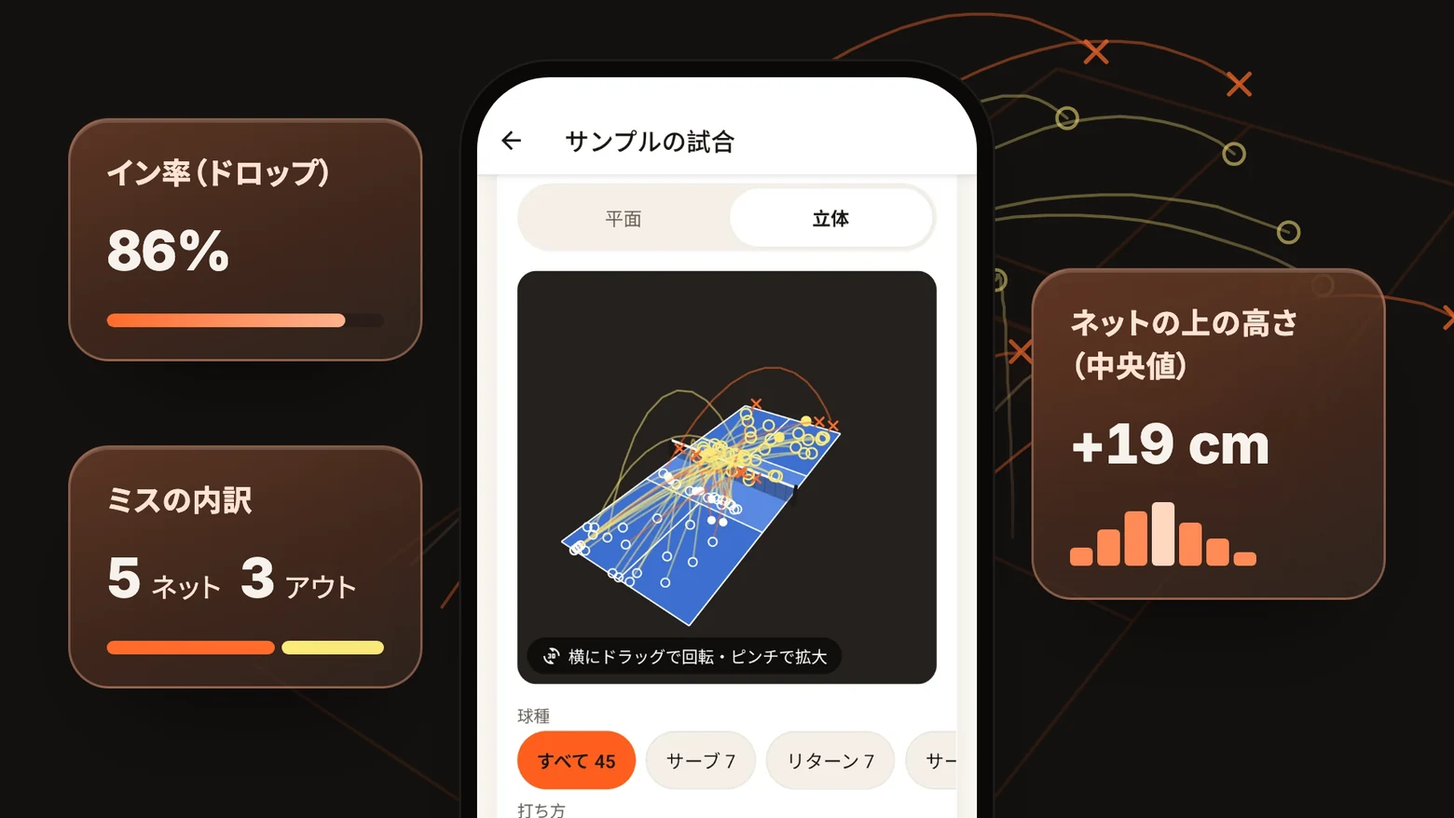
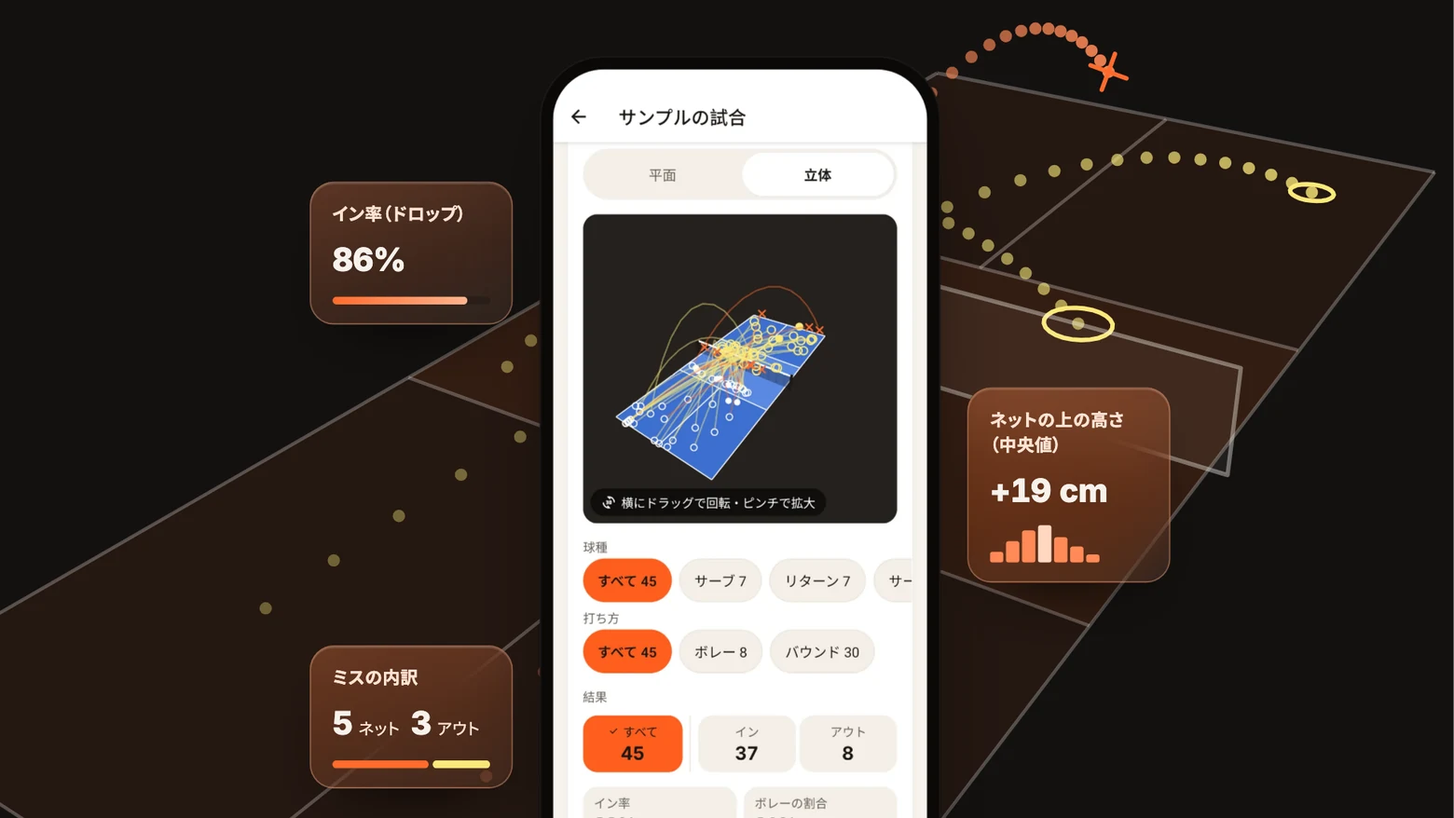
Pickle Up のページの冒頭の背景を、アプリの立体の図と同じ向きの大きなコートに、自分の打球3本（キッチンの奥へのドロップ・右奥への深い球を黄色の輪、奥へのアウトをオレンジの×）を丸い点の軌道で描いた絵に変える。点は手前が薄く奥ほど濃く、印はコートの上に置いた大きさで描き、ネットは最後に描いて隠れないようにする。打球は電話と数字のカードの位置に合わせてあるため、カードが電話の下に回る 1180px 未満ではコートだけを出す。トップページのカードの画像は、冒頭を文字を隠して 16:9 に切り出す形にして撮り直す
Claude-Session: https://claude.ai/code/session_01RcorTwHLSLi3TqpLhpw8hm

diff --git a/en/apps/pickle-up/index.html b/en/apps/pickle-up/index.html
@@ -27,7 +27,7 @@
 <link rel="preconnect" href="https://fonts.gstatic.com" crossorigin>
 <link href="https://fonts.googleapis.com/css2?family=Inter:wght@400;500;600;700;800&family=Noto+Sans+JP:wght@400;500;700;800&display=swap" rel="stylesheet">
 <link rel="stylesheet" href="https://cdnjs.cloudflare.com/ajax/libs/remixicon/4.6.0/remixicon.min.css">
-<link rel="stylesheet" href="/assets/css/apps/pickle-up.css?v=37">
+<link rel="stylesheet" href="/assets/css/apps/pickle-up.css?v=38">
 </head>
 <body class="page-home">
 <header class="app-header">
@@ -59,7 +59,7 @@
 </header>
 <main>
 <section class="hero">
-<svg class="court-lines with-shots" viewBox="0 0 1200 700" preserveAspectRatio="xMidYMid slice" aria-hidden="true" focusable="false"><path class="lines" d="M454 495 L782 713 M927 147 L1170 218 M454 495 L927 147 M782 713 L1170 218 M673 333 L971 471 M815 229 L1085 327 M600 592 L809 396 M940 274 L1041 180" fill="none" stroke="currentColor" stroke-width="2"/><path class="lines" d="M739 235 L1048 353 L1042 396 L744 275 Z" fill="currentColor" fill-opacity=".18" stroke="none"/><path class="lines" d="M744 275 L739 235 L1048 353 L1042 396" fill="none" stroke="currentColor" stroke-width="3" stroke-linejoin="round" stroke-linecap="round"/><defs><linearGradient id="arcFade" x1="0" y1="1" x2="0" y2="0"><stop offset="0" stop-color="#FFB48F" stop-opacity=".25"/><stop offset="1" stop-color="#FCE97A" stop-opacity=".9"/></linearGradient></defs><g class="flights"><path class="arc" d="M548 438 L575 412 L601 388 L628 366 L655 345 L681 326 L707 309 L732 293 L757 279 L782 267 L806 256 L829 247 L852 239 L874 233 L895 228 L915 224 L935 222 L953 221 L971 221 L989 223 L1005 225 L1021 228 L1035 233 L1049 238 L1063 243"/><path class="arc" d="M794 500 L798 473 L803 449 L807 426 L811 405 L815 385 L819 366 L823 349 L827 334 L831 320 L834 307 L838 296 L841 286 L845 277 L848 269 L851 263 L854 257 L857 253 L860 249 L862 247 L865 245 L867 244 L870 244 L872 244 L874 245"/><path class="arc" d="M596 497 L621 459 L647 424 L671 390 L696 360 L720 332 L744 306 L766 283 L788 263 L810 245 L830 229 L850 216 L869 204 L887 195 L904 188 L920 182 L936 178 L950 176 L964 175 L977 176 L989 178 L1001 181 L1012 185 L1022 190 L1031 197"/><path class="arc" d="M901 422 L901 407 L901 392 L900 378 L900 365 L899 353 L899 341 L898 331 L898 322 L897 313 L897 305 L897 298 L896 292 L896 287 L895 282 L895 278 L894 275 L894 272 L894 270 L893 269 L893 268 L892 268 L892 269 L892 270 L891 271"/><path class="arc" d="M631 352 L652 337 L673 322 L695 308 L716 295 L737 284 L758 274 L780 265 L801 257 L822 250 L842 244 L862 240 L882 237 L902 234 L921 233 L940 233 L958 234 L976 236 L993 239 L1009 243 L1025 248 L1041 253 L1056 259 L1070 266 L1083 274"/><path class="arc" d="M693 475 L707 439 L721 405 L735 373 L748 344 L761 318 L774 293 L786 271 L798 252 L810 235 L821 219 L832 206 L842 195 L852 186 L861 178 L870 172 L879 167 L887 165 L895 163 L902 163 L909 163 L916 165 L922 168 L928 172 L933 176"/><path class="arc" d="M867 375 L874 366 L881 357 L888 350 L895 343 L902 336 L908 330 L915 325 L922 320 L928 316 L934 313 L941 310 L947 308 L953 306 L959 305 L964 304 L970 304 L976 305 L981 306 L986 308 L991 310 L996 312 L1001 315 L1005 318 L1010 322"/><path class="arc-miss" d="M566 463 L594 423 L622 385 L649 350 L676 317 L702 288 L728 261 L752 237 L776 216 L799 198 L821 182 L842 168 L863 157 L882 148 L900 141 L917 136 L934 132 L949 131 L964 131 L977 132 L990 135 L1002 139 L1013 143 L1024 149 L1034 156"/><path class="arc-miss" d="M789 361 L794 357 L799 354 L805 350 L810 347 L815 344 L820 341 L825 338 L831 335 L836 333 L841 330 L846 328 L851 326 L856 324 L860 323 L865 321 L870 320 L875 318 L879 317 L884 316 L889 316 L893 315 L898 314 L902 314 L906 313"/><path class="arc-miss" d="M742 533 L767 505 L791 479 L815 454 L838 431 L861 410 L883 390 L905 372 L926 356 L946 341 L966 328 L985 317 L1003 308 L1020 300 L1037 293 L1053 288 L1068 284 L1082 281 L1096 280 L1108 280 L1120 281 L1132 283 L1142 285 L1152 289 L1161 293"/><path class="arc-miss" d="M584 376 L604 344 L624 314 L644 287 L664 262 L683 239 L702 218 L721 199 L739 183 L756 168 L773 156 L790 145 L806 136 L821 129 L836 123 L850 119 L863 116 L876 115 L888 115 L900 116 L911 118 L921 122 L931 126 L941 131 L950 137"/><circle class="end" cx="1063" cy="243" r="6"/><circle class="end" cx="874" cy="245" r="6"/><circle class="end" cx="1031" cy="197" r="6"/><circle class="end" cx="891" cy="271" r="6"/><circle class="end" cx="1083" cy="274" r="6"/><circle class="end" cx="933" cy="176" r="6"/><circle class="end" cx="1010" cy="322" r="6"/><path class="end-miss" d="M1028 150 L1040 162 M1040 150 L1028 162"/><path class="end-miss" d="M900 307 L912 319 M912 307 L900 319"/><path class="end-miss" d="M1155 287 L1167 299 M1167 287 L1155 299"/><path class="end-miss" d="M944 131 L956 143 M956 131 L944 143"/></g></svg>
+<svg class="court-lines hero-court" viewBox="0 0 1200 700" preserveAspectRatio="xMidYMid slice" aria-hidden="true" focusable="false"><path d="M258.6 474.0 L722.6 775.9 L1188.7 164.1 L897.6 106.5 Z" fill="#FF6B2C" fill-opacity=".07"/><path d="M589.3 283.8 L986.8 429.1 L1109.4 268.2 L769.8 180.0 Z" fill="#FF6B2C" fill-opacity=".07"/><line x1="259" y1="474" x2="723" y2="776" stroke="#F7F2EC" stroke-opacity=".28" stroke-width="2"/><line x1="898" y1="106" x2="1189" y2="164" stroke="#F7F2EC" stroke-opacity=".28" stroke-width="2"/><line x1="259" y1="474" x2="898" y2="106" stroke="#F7F2EC" stroke-opacity=".28" stroke-width="2"/><line x1="723" y1="776" x2="1189" y2="164" stroke="#F7F2EC" stroke-opacity=".28" stroke-width="2"/><line x1="589" y1="284" x2="987" y2="429" stroke="#F7F2EC" stroke-opacity=".28" stroke-width="2"/><line x1="770" y1="180" x2="1109" y2="268" stroke="#F7F2EC" stroke-opacity=".28" stroke-width="2"/><line x1="450" y1="598" x2="764" y2="348" stroke="#F7F2EC" stroke-opacity=".28" stroke-width="2"/><line x1="923" y1="220" x2="1032" y2="133" stroke="#F7F2EC" stroke-opacity=".28" stroke-width="2"/><g class="hero-shots"><circle cx="646.7" cy="277.7" r="3.6" fill="#FCE97A" fill-opacity="0.44"/><circle cx="660.6" cy="262.4" r="3.6" fill="#FCE97A" fill-opacity="0.45"/><circle cx="674.7" cy="248.3" r="3.6" fill="#FCE97A" fill-opacity="0.46"/><circle cx="688.8" cy="235.4" r="3.6" fill="#FCE97A" fill-opacity="0.46"/><circle cx="703.0" cy="223.8" r="3.6" fill="#FCE97A" fill-opacity="0.47"/><circle cx="717.2" cy="213.5" r="3.6" fill="#FCE97A" fill-opacity="0.48"/><circle cx="731.4" cy="204.4" r="3.6" fill="#FCE97A" fill-opacity="0.48"/><circle cx="745.6" cy="196.6" r="3.6" fill="#FCE97A" fill-opacity="0.49"/><circle cx="759.8" cy="190.1" r="3.6" fill="#FCE97A" fill-opacity="0.50"/><circle cx="773.8" cy="184.9" r="3.6" fill="#FCE97A" fill-opacity="0.50"/><circle cx="787.8" cy="180.9" r="3.6" fill="#FCE97A" fill-opacity="0.51"/><circle cx="801.6" cy="178.2" r="3.6" fill="#FCE97A" fill-opacity="0.52"/><circle cx="815.2" cy="176.6" r="3.6" fill="#FCE97A" fill-opacity="0.52"/><circle cx="828.7" cy="176.0" r="3.6" fill="#FCE97A" fill-opacity="0.53"/><circle cx="841.9" cy="176.5" r="3.6" fill="#FCE97A" fill-opacity="0.54"/><circle cx="855.0" cy="178.0" r="3.6" fill="#FCE97A" fill-opacity="0.54"/><circle cx="867.8" cy="180.5" r="3.6" fill="#FCE97A" fill-opacity="0.55"/><circle cx="880.3" cy="184.0" r="3.6" fill="#FCE97A" fill-opacity="0.56"/><circle cx="892.6" cy="188.4" r="3.6" fill="#FCE97A" fill-opacity="0.56"/><circle cx="904.7" cy="193.7" r="3.6" fill="#FCE97A" fill-opacity="0.57"/><circle cx="916.4" cy="199.8" r="3.6" fill="#FCE97A" fill-opacity="0.58"/><circle cx="927.8" cy="206.8" r="3.6" fill="#FCE97A" fill-opacity="0.59"/><circle cx="939.0" cy="214.5" r="3.6" fill="#FCE97A" fill-opacity="0.59"/><circle cx="949.8" cy="223.0" r="3.6" fill="#FCE97A" fill-opacity="0.60"/><circle cx="960.4" cy="232.2" r="3.6" fill="#FCE97A" fill-opacity="0.61"/><circle cx="970.6" cy="242.0" r="3.6" fill="#FCE97A" fill-opacity="0.62"/><circle cx="980.5" cy="252.5" r="3.6" fill="#FCE97A" fill-opacity="0.62"/><path d="M999.0 257.5 L1000.4 255.2 L1000.6 252.7 L999.3 250.3 L996.8 248.0 L993.2 246.0 L988.8 244.5 L983.8 243.6 L978.7 243.2 L973.6 243.4 L969.0 244.3 L965.2 245.7 L962.3 247.6 L960.7 249.8 L960.4 252.2 L961.4 254.7 L963.8 257.0 L967.4 259.1 L971.8 260.7 L976.9 261.7 L982.3 262.1 L987.5 261.8 L992.3 260.9 L996.2 259.4 Z" fill="none" stroke="#FCE97A" stroke-width="2.6"/><circle cx="505.5" cy="418.9" r="3.6" fill="#FCE97A" fill-opacity="0.35"/><circle cx="545.3" cy="390.9" r="3.6" fill="#FCE97A" fill-opacity="0.36"/><circle cx="583.4" cy="364.9" r="3.6" fill="#FCE97A" fill-opacity="0.38"/><circle cx="619.7" cy="340.8" r="3.6" fill="#FCE97A" fill-opacity="0.39"/><circle cx="654.3" cy="318.6" r="3.6" fill="#FCE97A" fill-opacity="0.41"/><circle cx="687.4" cy="298.0" r="3.6" fill="#FCE97A" fill-opacity="0.42"/><circle cx="719.1" cy="279.0" r="3.6" fill="#FCE97A" fill-opacity="0.44"/><circle cx="749.2" cy="261.6" r="3.6" fill="#FCE97A" fill-opacity="0.45"/><circle cx="778.1" cy="245.6" r="3.6" fill="#FCE97A" fill-opacity="0.47"/><circle cx="805.6" cy="230.9" r="3.6" fill="#FCE97A" fill-opacity="0.48"/><circle cx="831.9" cy="217.6" r="3.6" fill="#FCE97A" fill-opacity="0.50"/><circle cx="857.0" cy="205.4" r="3.6" fill="#FCE97A" fill-opacity="0.52"/><circle cx="881.0" cy="194.3" r="3.6" fill="#FCE97A" fill-opacity="0.54"/><circle cx="903.9" cy="184.3" r="3.6" fill="#FCE97A" fill-opacity="0.55"/><circle cx="925.8" cy="175.7" r="3.6" fill="#FCE97A" fill-opacity="0.57"/><circle cx="946.7" cy="168.7" r="3.6" fill="#FCE97A" fill-opacity="0.59"/><circle cx="966.6" cy="163.3" r="3.6" fill="#FCE97A" fill-opacity="0.61"/><circle cx="985.5" cy="159.4" r="3.6" fill="#FCE97A" fill-opacity="0.63"/><circle cx="1003.4" cy="156.8" r="3.6" fill="#FCE97A" fill-opacity="0.65"/><circle cx="1020.5" cy="155.5" r="3.6" fill="#FCE97A" fill-opacity="0.67"/><circle cx="1036.7" cy="155.4" r="3.6" fill="#FCE97A" fill-opacity="0.69"/><circle cx="1052.0" cy="156.5" r="3.6" fill="#FCE97A" fill-opacity="0.71"/><circle cx="1066.5" cy="158.5" r="3.6" fill="#FCE97A" fill-opacity="0.73"/><circle cx="1080.3" cy="161.6" r="3.6" fill="#FCE97A" fill-opacity="0.75"/><circle cx="1093.3" cy="165.5" r="3.6" fill="#FCE97A" fill-opacity="0.77"/><circle cx="1105.5" cy="170.3" r="3.6" fill="#FCE97A" fill-opacity="0.79"/><circle cx="1117.1" cy="175.8" r="3.6" fill="#FCE97A" fill-opacity="0.81"/><path d="M1129.3 178.4 L1129.9 177.2 L1129.5 176.0 L1128.4 174.7 L1126.4 173.5 L1123.9 172.5 L1120.9 171.7 L1117.6 171.2 L1114.3 171.0 L1111.2 171.1 L1108.5 171.5 L1106.4 172.3 L1105.0 173.3 L1104.4 174.4 L1104.6 175.7 L1105.7 177.0 L1107.6 178.2 L1110.1 179.3 L1113.2 180.1 L1116.5 180.6 L1119.9 180.8 L1123.0 180.7 L1125.8 180.2 L1127.9 179.4 Z" fill="none" stroke="#FCE97A" stroke-width="2.6"/><circle cx="597.3" cy="586.1" r="3.6" fill="#FF8A57" fill-opacity="0.32"/><circle cx="634.4" cy="517.0" r="3.6" fill="#FF8A57" fill-opacity="0.34"/><circle cx="668.1" cy="456.1" r="3.6" fill="#FF8A57" fill-opacity="0.35"/><circle cx="698.8" cy="402.4" r="3.6" fill="#FF8A57" fill-opacity="0.37"/><circle cx="726.7" cy="354.9" r="3.6" fill="#FF8A57" fill-opacity="0.39"/><circle cx="752.3" cy="313.1" r="3.6" fill="#FF8A57" fill-opacity="0.41"/><circle cx="775.6" cy="276.1" r="3.6" fill="#FF8A57" fill-opacity="0.43"/><circle cx="797.1" cy="243.6" r="3.6" fill="#FF8A57" fill-opacity="0.45"/><circle cx="816.8" cy="215.0" r="3.6" fill="#FF8A57" fill-opacity="0.47"/><circle cx="834.9" cy="189.9" r="3.6" fill="#FF8A57" fill-opacity="0.49"/><circle cx="851.7" cy="167.9" r="3.6" fill="#FF8A57" fill-opacity="0.51"/><circle cx="867.1" cy="148.8" r="3.6" fill="#FF8A57" fill-opacity="0.54"/><circle cx="881.4" cy="132.2" r="3.6" fill="#FF8A57" fill-opacity="0.56"/><circle cx="894.6" cy="117.8" r="3.6" fill="#FF8A57" fill-opacity="0.58"/><circle cx="906.8" cy="105.9" r="3.6" fill="#FF8A57" fill-opacity="0.61"/><circle cx="918.1" cy="96.6" r="3.6" fill="#FF8A57" fill-opacity="0.63"/><circle cx="928.6" cy="89.5" r="3.6" fill="#FF8A57" fill-opacity="0.66"/><circle cx="938.2" cy="84.5" r="3.6" fill="#FF8A57" fill-opacity="0.68"/><circle cx="947.2" cy="81.4" r="3.6" fill="#FF8A57" fill-opacity="0.71"/><circle cx="955.5" cy="80.0" r="3.6" fill="#FF8A57" fill-opacity="0.74"/><circle cx="963.1" cy="80.1" r="3.6" fill="#FF8A57" fill-opacity="0.76"/><circle cx="970.2" cy="81.6" r="3.6" fill="#FF8A57" fill-opacity="0.79"/><circle cx="976.7" cy="84.3" r="3.6" fill="#FF8A57" fill-opacity="0.82"/><circle cx="982.7" cy="88.1" r="3.6" fill="#FF8A57" fill-opacity="0.85"/><circle cx="988.3" cy="93.0" r="3.6" fill="#FF8A57" fill-opacity="0.88"/><circle cx="993.4" cy="98.7" r="3.6" fill="#FF8A57" fill-opacity="0.90"/><circle cx="998.2" cy="105.3" r="3.6" fill="#FF8A57" fill-opacity="0.93"/><path d="M987.7 101.5 L1008.7 109.1 M994.3 115.8 L1002.0 94.8" stroke="#FF6B2C" stroke-width="2.6" stroke-linecap="round"/></g><path d="M682.3 223.9 L677.1 170.9 L1075.6 278.4 L1067.8 341.0 Z" fill="#F7F2EC" fill-opacity=".06" stroke="#F7F2EC" stroke-opacity=".4" stroke-width="2.5" stroke-linejoin="round"/></svg>
 <div class="wrap hero-grid">
 <div class="hero-copy">
 <p class="hero-app"><img src="/images/apps/pickle-up/icon-128.png" alt="" width="40" height="40"><span lang="en">Pickle Up</span></p>
@@ -182,11 +182,11 @@
 </div>
 </div>
 </footer>
-<script src="/assets/js/app-menu.js?v=37" defer></script>
-<script src="/assets/js/app-lang.js?v=37" defer></script>
+<script src="/assets/js/app-menu.js?v=38" defer></script>
+<script src="/assets/js/app-lang.js?v=38" defer></script>
 <script>document.querySelectorAll('[data-year]').forEach(function (el) { el.textContent = new Date().getFullYear(); });</script>
-<script src="/assets/js/app-carousel.js?v=37" defer></script>
-<script src="/assets/js/app-audio.js?v=37" defer></script>
-<script src="/assets/js/app-swipe.js?v=37" defer></script>
+<script src="/assets/js/app-carousel.js?v=38" defer></script>
+<script src="/assets/js/app-audio.js?v=38" defer></script>
+<script src="/assets/js/app-swipe.js?v=38" defer></script>
 </body>
 </html>

diff --git a/ja/apps/pickle-up/index.html b/ja/apps/pickle-up/index.html
@@ -27,7 +27,7 @@
 <link rel="preconnect" href="https://fonts.gstatic.com" crossorigin>
 <link href="https://fonts.googleapis.com/css2?family=Inter:wght@400;500;600;700;800&family=Noto+Sans+JP:wght@400;500;700;800&display=swap" rel="stylesheet">
 <link rel="stylesheet" href="https://cdnjs.cloudflare.com/ajax/libs/remixicon/4.6.0/remixicon.min.css">
-<link rel="stylesheet" href="/assets/css/apps/pickle-up.css?v=37">
+<link rel="stylesheet" href="/assets/css/apps/pickle-up.css?v=38">
 </head>
 <body class="page-home">
 <header class="app-header">
@@ -59,7 +59,7 @@
 </header>
 <main>
 <section class="hero">
-<svg class="court-lines with-shots" viewBox="0 0 1200 700" preserveAspectRatio="xMidYMid slice" aria-hidden="true" focusable="false"><path class="lines" d="M454 495 L782 713 M927 147 L1170 218 M454 495 L927 147 M782 713 L1170 218 M673 333 L971 471 M815 229 L1085 327 M600 592 L809 396 M940 274 L1041 180" fill="none" stroke="currentColor" stroke-width="2"/><path class="lines" d="M739 235 L1048 353 L1042 396 L744 275 Z" fill="currentColor" fill-opacity=".18" stroke="none"/><path class="lines" d="M744 275 L739 235 L1048 353 L1042 396" fill="none" stroke="currentColor" stroke-width="3" stroke-linejoin="round" stroke-linecap="round"/><defs><linearGradient id="arcFade" x1="0" y1="1" x2="0" y2="0"><stop offset="0" stop-color="#FFB48F" stop-opacity=".25"/><stop offset="1" stop-color="#FCE97A" stop-opacity=".9"/></linearGradient></defs><g class="flights"><path class="arc" d="M548 438 L575 412 L601 388 L628 366 L655 345 L681 326 L707 309 L732 293 L757 279 L782 267 L806 256 L829 247 L852 239 L874 233 L895 228 L915 224 L935 222 L953 221 L971 221 L989 223 L1005 225 L1021 228 L1035 233 L1049 238 L1063 243"/><path class="arc" d="M794 500 L798 473 L803 449 L807 426 L811 405 L815 385 L819 366 L823 349 L827 334 L831 320 L834 307 L838 296 L841 286 L845 277 L848 269 L851 263 L854 257 L857 253 L860 249 L862 247 L865 245 L867 244 L870 244 L872 244 L874 245"/><path class="arc" d="M596 497 L621 459 L647 424 L671 390 L696 360 L720 332 L744 306 L766 283 L788 263 L810 245 L830 229 L850 216 L869 204 L887 195 L904 188 L920 182 L936 178 L950 176 L964 175 L977 176 L989 178 L1001 181 L1012 185 L1022 190 L1031 197"/><path class="arc" d="M901 422 L901 407 L901 392 L900 378 L900 365 L899 353 L899 341 L898 331 L898 322 L897 313 L897 305 L897 298 L896 292 L896 287 L895 282 L895 278 L894 275 L894 272 L894 270 L893 269 L893 268 L892 268 L892 269 L892 270 L891 271"/><path class="arc" d="M631 352 L652 337 L673 322 L695 308 L716 295 L737 284 L758 274 L780 265 L801 257 L822 250 L842 244 L862 240 L882 237 L902 234 L921 233 L940 233 L958 234 L976 236 L993 239 L1009 243 L1025 248 L1041 253 L1056 259 L1070 266 L1083 274"/><path class="arc" d="M693 475 L707 439 L721 405 L735 373 L748 344 L761 318 L774 293 L786 271 L798 252 L810 235 L821 219 L832 206 L842 195 L852 186 L861 178 L870 172 L879 167 L887 165 L895 163 L902 163 L909 163 L916 165 L922 168 L928 172 L933 176"/><path class="arc" d="M867 375 L874 366 L881 357 L888 350 L895 343 L902 336 L908 330 L915 325 L922 320 L928 316 L934 313 L941 310 L947 308 L953 306 L959 305 L964 304 L970 304 L976 305 L981 306 L986 308 L991 310 L996 312 L1001 315 L1005 318 L1010 322"/><path class="arc-miss" d="M566 463 L594 423 L622 385 L649 350 L676 317 L702 288 L728 261 L752 237 L776 216 L799 198 L821 182 L842 168 L863 157 L882 148 L900 141 L917 136 L934 132 L949 131 L964 131 L977 132 L990 135 L1002 139 L1013 143 L1024 149 L1034 156"/><path class="arc-miss" d="M789 361 L794 357 L799 354 L805 350 L810 347 L815 344 L820 341 L825 338 L831 335 L836 333 L841 330 L846 328 L851 326 L856 324 L860 323 L865 321 L870 320 L875 318 L879 317 L884 316 L889 316 L893 315 L898 314 L902 314 L906 313"/><path class="arc-miss" d="M742 533 L767 505 L791 479 L815 454 L838 431 L861 410 L883 390 L905 372 L926 356 L946 341 L966 328 L985 317 L1003 308 L1020 300 L1037 293 L1053 288 L1068 284 L1082 281 L1096 280 L1108 280 L1120 281 L1132 283 L1142 285 L1152 289 L1161 293"/><path class="arc-miss" d="M584 376 L604 344 L624 314 L644 287 L664 262 L683 239 L702 218 L721 199 L739 183 L756 168 L773 156 L790 145 L806 136 L821 129 L836 123 L850 119 L863 116 L876 115 L888 115 L900 116 L911 118 L921 122 L931 126 L941 131 L950 137"/><circle class="end" cx="1063" cy="243" r="6"/><circle class="end" cx="874" cy="245" r="6"/><circle class="end" cx="1031" cy="197" r="6"/><circle class="end" cx="891" cy="271" r="6"/><circle class="end" cx="1083" cy="274" r="6"/><circle class="end" cx="933" cy="176" r="6"/><circle class="end" cx="1010" cy="322" r="6"/><path class="end-miss" d="M1028 150 L1040 162 M1040 150 L1028 162"/><path class="end-miss" d="M900 307 L912 319 M912 307 L900 319"/><path class="end-miss" d="M1155 287 L1167 299 M1167 287 L1155 299"/><path class="end-miss" d="M944 131 L956 143 M956 131 L944 143"/></g></svg>
+<svg class="court-lines hero-court" viewBox="0 0 1200 700" preserveAspectRatio="xMidYMid slice" aria-hidden="true" focusable="false"><path d="M258.6 474.0 L722.6 775.9 L1188.7 164.1 L897.6 106.5 Z" fill="#FF6B2C" fill-opacity=".07"/><path d="M589.3 283.8 L986.8 429.1 L1109.4 268.2 L769.8 180.0 Z" fill="#FF6B2C" fill-opacity=".07"/><line x1="259" y1="474" x2="723" y2="776" stroke="#F7F2EC" stroke-opacity=".28" stroke-width="2"/><line x1="898" y1="106" x2="1189" y2="164" stroke="#F7F2EC" stroke-opacity=".28" stroke-width="2"/><line x1="259" y1="474" x2="898" y2="106" stroke="#F7F2EC" stroke-opacity=".28" stroke-width="2"/><line x1="723" y1="776" x2="1189" y2="164" stroke="#F7F2EC" stroke-opacity=".28" stroke-width="2"/><line x1="589" y1="284" x2="987" y2="429" stroke="#F7F2EC" stroke-opacity=".28" stroke-width="2"/><line x1="770" y1="180" x2="1109" y2="268" stroke="#F7F2EC" stroke-opacity=".28" stroke-width="2"/><line x1="450" y1="598" x2="764" y2="348" stroke="#F7F2EC" stroke-opacity=".28" stroke-width="2"/><line x1="923" y1="220" x2="1032" y2="133" stroke="#F7F2EC" stroke-opacity=".28" stroke-width="2"/><g class="hero-shots"><circle cx="646.7" cy="277.7" r="3.6" fill="#FCE97A" fill-opacity="0.44"/><circle cx="660.6" cy="262.4" r="3.6" fill="#FCE97A" fill-opacity="0.45"/><circle cx="674.7" cy="248.3" r="3.6" fill="#FCE97A" fill-opacity="0.46"/><circle cx="688.8" cy="235.4" r="3.6" fill="#FCE97A" fill-opacity="0.46"/><circle cx="703.0" cy="223.8" r="3.6" fill="#FCE97A" fill-opacity="0.47"/><circle cx="717.2" cy="213.5" r="3.6" fill="#FCE97A" fill-opacity="0.48"/><circle cx="731.4" cy="204.4" r="3.6" fill="#FCE97A" fill-opacity="0.48"/><circle cx="745.6" cy="196.6" r="3.6" fill="#FCE97A" fill-opacity="0.49"/><circle cx="759.8" cy="190.1" r="3.6" fill="#FCE97A" fill-opacity="0.50"/><circle cx="773.8" cy="184.9" r="3.6" fill="#FCE97A" fill-opacity="0.50"/><circle cx="787.8" cy="180.9" r="3.6" fill="#FCE97A" fill-opacity="0.51"/><circle cx="801.6" cy="178.2" r="3.6" fill="#FCE97A" fill-opacity="0.52"/><circle cx="815.2" cy="176.6" r="3.6" fill="#FCE97A" fill-opacity="0.52"/><circle cx="828.7" cy="176.0" r="3.6" fill="#FCE97A" fill-opacity="0.53"/><circle cx="841.9" cy="176.5" r="3.6" fill="#FCE97A" fill-opacity="0.54"/><circle cx="855.0" cy="178.0" r="3.6" fill="#FCE97A" fill-opacity="0.54"/><circle cx="867.8" cy="180.5" r="3.6" fill="#FCE97A" fill-opacity="0.55"/><circle cx="880.3" cy="184.0" r="3.6" fill="#FCE97A" fill-opacity="0.56"/><circle cx="892.6" cy="188.4" r="3.6" fill="#FCE97A" fill-opacity="0.56"/><circle cx="904.7" cy="193.7" r="3.6" fill="#FCE97A" fill-opacity="0.57"/><circle cx="916.4" cy="199.8" r="3.6" fill="#FCE97A" fill-opacity="0.58"/><circle cx="927.8" cy="206.8" r="3.6" fill="#FCE97A" fill-opacity="0.59"/><circle cx="939.0" cy="214.5" r="3.6" fill="#FCE97A" fill-opacity="0.59"/><circle cx="949.8" cy="223.0" r="3.6" fill="#FCE97A" fill-opacity="0.60"/><circle cx="960.4" cy="232.2" r="3.6" fill="#FCE97A" fill-opacity="0.61"/><circle cx="970.6" cy="242.0" r="3.6" fill="#FCE97A" fill-opacity="0.62"/><circle cx="980.5" cy="252.5" r="3.6" fill="#FCE97A" fill-opacity="0.62"/><path d="M999.0 257.5 L1000.4 255.2 L1000.6 252.7 L999.3 250.3 L996.8 248.0 L993.2 246.0 L988.8 244.5 L983.8 243.6 L978.7 243.2 L973.6 243.4 L969.0 244.3 L965.2 245.7 L962.3 247.6 L960.7 249.8 L960.4 252.2 L961.4 254.7 L963.8 257.0 L967.4 259.1 L971.8 260.7 L976.9 261.7 L982.3 262.1 L987.5 261.8 L992.3 260.9 L996.2 259.4 Z" fill="none" stroke="#FCE97A" stroke-width="2.6"/><circle cx="505.5" cy="418.9" r="3.6" fill="#FCE97A" fill-opacity="0.35"/><circle cx="545.3" cy="390.9" r="3.6" fill="#FCE97A" fill-opacity="0.36"/><circle cx="583.4" cy="364.9" r="3.6" fill="#FCE97A" fill-opacity="0.38"/><circle cx="619.7" cy="340.8" r="3.6" fill="#FCE97A" fill-opacity="0.39"/><circle cx="654.3" cy="318.6" r="3.6" fill="#FCE97A" fill-opacity="0.41"/><circle cx="687.4" cy="298.0" r="3.6" fill="#FCE97A" fill-opacity="0.42"/><circle cx="719.1" cy="279.0" r="3.6" fill="#FCE97A" fill-opacity="0.44"/><circle cx="749.2" cy="261.6" r="3.6" fill="#FCE97A" fill-opacity="0.45"/><circle cx="778.1" cy="245.6" r="3.6" fill="#FCE97A" fill-opacity="0.47"/><circle cx="805.6" cy="230.9" r="3.6" fill="#FCE97A" fill-opacity="0.48"/><circle cx="831.9" cy="217.6" r="3.6" fill="#FCE97A" fill-opacity="0.50"/><circle cx="857.0" cy="205.4" r="3.6" fill="#FCE97A" fill-opacity="0.52"/><circle cx="881.0" cy="194.3" r="3.6" fill="#FCE97A" fill-opacity="0.54"/><circle cx="903.9" cy="184.3" r="3.6" fill="#FCE97A" fill-opacity="0.55"/><circle cx="925.8" cy="175.7" r="3.6" fill="#FCE97A" fill-opacity="0.57"/><circle cx="946.7" cy="168.7" r="3.6" fill="#FCE97A" fill-opacity="0.59"/><circle cx="966.6" cy="163.3" r="3.6" fill="#FCE97A" fill-opacity="0.61"/><circle cx="985.5" cy="159.4" r="3.6" fill="#FCE97A" fill-opacity="0.63"/><circle cx="1003.4" cy="156.8" r="3.6" fill="#FCE97A" fill-opacity="0.65"/><circle cx="1020.5" cy="155.5" r="3.6" fill="#FCE97A" fill-opacity="0.67"/><circle cx="1036.7" cy="155.4" r="3.6" fill="#FCE97A" fill-opacity="0.69"/><circle cx="1052.0" cy="156.5" r="3.6" fill="#FCE97A" fill-opacity="0.71"/><circle cx="1066.5" cy="158.5" r="3.6" fill="#FCE97A" fill-opacity="0.73"/><circle cx="1080.3" cy="161.6" r="3.6" fill="#FCE97A" fill-opacity="0.75"/><circle cx="1093.3" cy="165.5" r="3.6" fill="#FCE97A" fill-opacity="0.77"/><circle cx="1105.5" cy="170.3" r="3.6" fill="#FCE97A" fill-opacity="0.79"/><circle cx="1117.1" cy="175.8" r="3.6" fill="#FCE97A" fill-opacity="0.81"/><path d="M1129.3 178.4 L1129.9 177.2 L1129.5 176.0 L1128.4 174.7 L1126.4 173.5 L1123.9 172.5 L1120.9 171.7 L1117.6 171.2 L1114.3 171.0 L1111.2 171.1 L1108.5 171.5 L1106.4 172.3 L1105.0 173.3 L1104.4 174.4 L1104.6 175.7 L1105.7 177.0 L1107.6 178.2 L1110.1 179.3 L1113.2 180.1 L1116.5 180.6 L1119.9 180.8 L1123.0 180.7 L1125.8 180.2 L1127.9 179.4 Z" fill="none" stroke="#FCE97A" stroke-width="2.6"/><circle cx="597.3" cy="586.1" r="3.6" fill="#FF8A57" fill-opacity="0.32"/><circle cx="634.4" cy="517.0" r="3.6" fill="#FF8A57" fill-opacity="0.34"/><circle cx="668.1" cy="456.1" r="3.6" fill="#FF8A57" fill-opacity="0.35"/><circle cx="698.8" cy="402.4" r="3.6" fill="#FF8A57" fill-opacity="0.37"/><circle cx="726.7" cy="354.9" r="3.6" fill="#FF8A57" fill-opacity="0.39"/><circle cx="752.3" cy="313.1" r="3.6" fill="#FF8A57" fill-opacity="0.41"/><circle cx="775.6" cy="276.1" r="3.6" fill="#FF8A57" fill-opacity="0.43"/><circle cx="797.1" cy="243.6" r="3.6" fill="#FF8A57" fill-opacity="0.45"/><circle cx="816.8" cy="215.0" r="3.6" fill="#FF8A57" fill-opacity="0.47"/><circle cx="834.9" cy="189.9" r="3.6" fill="#FF8A57" fill-opacity="0.49"/><circle cx="851.7" cy="167.9" r="3.6" fill="#FF8A57" fill-opacity="0.51"/><circle cx="867.1" cy="148.8" r="3.6" fill="#FF8A57" fill-opacity="0.54"/><circle cx="881.4" cy="132.2" r="3.6" fill="#FF8A57" fill-opacity="0.56"/><circle cx="894.6" cy="117.8" r="3.6" fill="#FF8A57" fill-opacity="0.58"/><circle cx="906.8" cy="105.9" r="3.6" fill="#FF8A57" fill-opacity="0.61"/><circle cx="918.1" cy="96.6" r="3.6" fill="#FF8A57" fill-opacity="0.63"/><circle cx="928.6" cy="89.5" r="3.6" fill="#FF8A57" fill-opacity="0.66"/><circle cx="938.2" cy="84.5" r="3.6" fill="#FF8A57" fill-opacity="0.68"/><circle cx="947.2" cy="81.4" r="3.6" fill="#FF8A57" fill-opacity="0.71"/><circle cx="955.5" cy="80.0" r="3.6" fill="#FF8A57" fill-opacity="0.74"/><circle cx="963.1" cy="80.1" r="3.6" fill="#FF8A57" fill-opacity="0.76"/><circle cx="970.2" cy="81.6" r="3.6" fill="#FF8A57" fill-opacity="0.79"/><circle cx="976.7" cy="84.3" r="3.6" fill="#FF8A57" fill-opacity="0.82"/><circle cx="982.7" cy="88.1" r="3.6" fill="#FF8A57" fill-opacity="0.85"/><circle cx="988.3" cy="93.0" r="3.6" fill="#FF8A57" fill-opacity="0.88"/><circle cx="993.4" cy="98.7" r="3.6" fill="#FF8A57" fill-opacity="0.90"/><circle cx="998.2" cy="105.3" r="3.6" fill="#FF8A57" fill-opacity="0.93"/><path d="M987.7 101.5 L1008.7 109.1 M994.3 115.8 L1002.0 94.8" stroke="#FF6B2C" stroke-width="2.6" stroke-linecap="round"/></g><path d="M682.3 223.9 L677.1 170.9 L1075.6 278.4 L1067.8 341.0 Z" fill="#F7F2EC" fill-opacity=".06" stroke="#F7F2EC" stroke-opacity=".4" stroke-width="2.5" stroke-linejoin="round"/></svg>
 <div class="wrap hero-grid">
 <div class="hero-copy">
 <p class="hero-app"><img src="/images/apps/pickle-up/icon-128.png" alt="" width="40" height="40"><span lang="en">Pickle Up</span></p>
@@ -182,11 +182,11 @@
 </div>
 </div>
 </footer>
-<script src="/assets/js/app-menu.js?v=37" defer></script>
-<script src="/assets/js/app-lang.js?v=37" defer></script>
+<script src="/assets/js/app-menu.js?v=38" defer></script>
+<script src="/assets/js/app-lang.js?v=38" defer></script>
 <script>document.querySelectorAll('[data-year]').forEach(function (el) { el.textContent = new Date().getFullYear(); });</script>
-<script src="/assets/js/app-carousel.js?v=37" defer></script>
-<script src="/assets/js/app-audio.js?v=37" defer></script>
-<script src="/assets/js/app-swipe.js?v=37" defer></script>
+<script src="/assets/js/app-carousel.js?v=38" defer></script>
+<script src="/assets/js/app-audio.js?v=38" defer></script>
+<script src="/assets/js/app-swipe.js?v=38" defer></script>
 </body>
 </html>

diff --git a/assets/css/apps/pickle-up.css b/assets/css/apps/pickle-up.css
@@ -77,15 +77,11 @@ img { max-width: 100%; height: auto; }
 /* Hero: dark, with the court's lines behind */
 .hero, .cta, .section-dark { position: relative; overflow: hidden; background: var(--ink); color: var(--on-ink); }
 .court-lines { position: absolute; inset: 0; width: 100%; height: 100%; color: var(--accent); opacity: .09; pointer-events: none; }
-/* The hero: the plain dark base, the court with a few shot flights drawn over it as the app draws them
-   (thin, quiet), and two of the sample's numbers beside the phone. */
-.court-lines.with-shots { opacity: 1; }
-.court-lines.with-shots .lines { opacity: .10; }
-.flights .arc, .flights .arc-miss { fill: none; stroke-width: 1.75; stroke-linecap: round; }
-.flights .arc { stroke: url(#arcFade); opacity: .38; }
-.flights .arc-miss { stroke: #FF6B2C; opacity: .4; }
-.flights .end { fill: none; stroke: #FCE97A; stroke-width: 2; opacity: .55; }
-.flights .end-miss { stroke: #FF6B2C; stroke-width: 2.5; stroke-linecap: round; opacity: .7; }
+/* The hero: the plain dark base and the court at the app's 3D angle with three shots drawn as the app marks
+   them (build.py hero_court_svg; its colours are in the picture). */
+.court-lines.hero-court { opacity: 1; }
+/* The shots are placed around the phone and its cards as they sit on wide screens only. */
+@media (max-width: 1179px) { .hero-court .hero-shots { display: none; } }
 /* Cards as warm tangerine-tinted glass over the dark hero: light enough to stand off the dark base, blurred, a light edge on top. */
 .hero-stats { display: grid; grid-template-columns: repeat(2, minmax(0, 1fr)); gap: .75rem; width: min(100%, 26rem); }
 .hero-stat-3 { grid-column: 1 / -1; }

diff --git a/ja/apps/pickle-up/support/index.html b/ja/apps/pickle-up/support/index.html
@@ -27,7 +27,7 @@
 <link rel="preconnect" href="https://fonts.gstatic.com" crossorigin>
 <link href="https://fonts.googleapis.com/css2?family=Inter:wght@400;500;600;700;800&family=Noto+Sans+JP:wght@400;500;700;800&display=swap" rel="stylesheet">
 <link rel="stylesheet" href="https://cdnjs.cloudflare.com/ajax/libs/remixicon/4.6.0/remixicon.min.css">
-<link rel="stylesheet" href="/assets/css/apps/pickle-up.css?v=37">
+<link rel="stylesheet" href="/assets/css/apps/pickle-up.css?v=38">
 </head>
 <body class="page-doc">
 <header class="app-header">
@@ -78,7 +78,7 @@
 <button type="submit" class="button">メールで送る<i class="ri-mail-send-line" aria-hidden="true"></i></button>
 </form>
 </section>
-<script src="/assets/js/app-contact.js?v=37" defer></script>
+<script src="/assets/js/app-contact.js?v=38" defer></script>
 </div>
 </main>
 <footer class="app-footer">
@@ -109,8 +109,8 @@
 </div>
 </div>
 </footer>
-<script src="/assets/js/app-menu.js?v=37" defer></script>
-<script src="/assets/js/app-lang.js?v=37" defer></script>
+<script src="/assets/js/app-menu.js?v=38" defer></script>
+<script src="/assets/js/app-lang.js?v=38" defer></script>
 <script>document.querySelectorAll('[data-year]').forEach(function (el) { el.textContent = new Date().getFullYear(); });</script>
 </body>
 </html>

diff --git a/en/apps/pickle-up/support/index.html b/en/apps/pickle-up/support/index.html
@@ -27,7 +27,7 @@
 <link rel="preconnect" href="https://fonts.gstatic.com" crossorigin>
 <link href="https://fonts.googleapis.com/css2?family=Inter:wght@400;500;600;700;800&family=Noto+Sans+JP:wght@400;500;700;800&display=swap" rel="stylesheet">
 <link rel="stylesheet" href="https://cdnjs.cloudflare.com/ajax/libs/remixicon/4.6.0/remixicon.min.css">
-<link rel="stylesheet" href="/assets/css/apps/pickle-up.css?v=37">
+<link rel="stylesheet" href="/assets/css/apps/pickle-up.css?v=38">
 </head>
 <body class="page-doc">
 <header class="app-header">
@@ -78,7 +78,7 @@
 <button type="submit" class="button">Continue to email<i class="ri-mail-send-line" aria-hidden="true"></i></button>
 </form>
 </section>
-<script src="/assets/js/app-contact.js?v=37" defer></script>
+<script src="/assets/js/app-contact.js?v=38" defer></script>
 </div>
 </main>
 <footer class="app-footer">
@@ -109,8 +109,8 @@
 </div>
 </div>
 </footer>
-<script src="/assets/js/app-menu.js?v=37" defer></script>
-<script src="/assets/js/app-lang.js?v=37" defer></script>
+<script src="/assets/js/app-menu.js?v=38" defer></script>
+<script src="/assets/js/app-lang.js?v=38" defer></script>
 <script>document.querySelectorAll('[data-year]').forEach(function (el) { el.textContent = new Date().getFullYear(); });</script>
 </body>
 </html>

diff --git a/en/apps/pickle-up/privacy/index.html b/en/apps/pickle-up/privacy/index.html
@@ -27,7 +27,7 @@
 <link rel="preconnect" href="https://fonts.gstatic.com" crossorigin>
 <link href="https://fonts.googleapis.com/css2?family=Inter:wght@400;500;600;700;800&family=Noto+Sans+JP:wght@400;500;700;800&display=swap" rel="stylesheet">
 <link rel="stylesheet" href="https://cdnjs.cloudflare.com/ajax/libs/remixicon/4.6.0/remixicon.min.css">
-<link rel="stylesheet" href="/assets/css/apps/pickle-up.css?v=37">
+<link rel="stylesheet" href="/assets/css/apps/pickle-up.css?v=38">
 </head>
 <body class="page-doc">
 <header class="app-header">
@@ -180,8 +180,8 @@
 </div>
 </div>
 </footer>
-<script src="/assets/js/app-menu.js?v=37" defer></script>
-<script src="/assets/js/app-lang.js?v=37" defer></script>
+<script src="/assets/js/app-menu.js?v=38" defer></script>
+<script src="/assets/js/app-lang.js?v=38" defer></script>
 <script>document.querySelectorAll('[data-year]').forEach(function (el) { el.textContent = new Date().getFullYear(); });</script>
 </body>
 </html>

diff --git a/ja/apps/pickle-up/privacy/index.html b/ja/apps/pickle-up/privacy/index.html
@@ -27,7 +27,7 @@
 <link rel="preconnect" href="https://fonts.gstatic.com" crossorigin>
 <link href="https://fonts.googleapis.com/css2?family=Inter:wght@400;500;600;700;800&family=Noto+Sans+JP:wght@400;500;700;800&display=swap" rel="stylesheet">
 <link rel="stylesheet" href="https://cdnjs.cloudflare.com/ajax/libs/remixicon/4.6.0/remixicon.min.css">
-<link rel="stylesheet" href="/assets/css/apps/pickle-up.css?v=37">
+<link rel="stylesheet" href="/assets/css/apps/pickle-up.css?v=38">
 </head>
 <body class="page-doc">
 <header class="app-header">
@@ -180,8 +180,8 @@
 </div>
 </div>
 </footer>
-<script src="/assets/js/app-menu.js?v=37" defer></script>
-<script src="/assets/js/app-lang.js?v=37" defer></script>
+<script src="/assets/js/app-menu.js?v=38" defer></script>
+<script src="/assets/js/app-lang.js?v=38" defer></script>
 <script>document.querySelectorAll('[data-year]').forEach(function (el) { el.textContent = new Date().getFullYear(); });</script>
 </body>
 </html>

diff --git a/scripts/app_pages/build.py b/scripts/app_pages/build.py
@@ -16,7 +16,7 @@ LANGS = ('ja', 'en')
 OTHER = {'ja': 'en', 'en': 'ja'}
 LANG_LABEL = {'ja': '日本語', 'en': 'English'}
 OG_LOCALE = {'ja': 'ja_JP', 'en': 'en_US'}
-CSS_VERSION = 37
+CSS_VERSION = 38
 
 
 def read(path):
@@ -254,8 +254,7 @@ class App:
         faq = ''.join(f'<details><summary>{e(q)}<i class="ri-add-line" aria-hidden="true"></i></summary><p>{e(a)}</p></details>'
                       for q, a in t['faq']['items'])
         court = court_lines_svg()
-        # Up and to the right of the closing call's, so it sits behind the phone and its cards.
-        hero_court = court_lines_svg(shots=True, at_x=880, at_y=330)
+        hero_court = hero_court_svg()
         # Three of the sample's numbers around the phone (never over it): decorative, as its screens show them too.
         (in_label, in_value), (net_label, net_value), (miss_label, (net_name, net_n), (out_name, out_n)) = h['stats']
         # A label breaks only before its bracket ("…（中央値）"), not inside a word. The space before an English
@@ -418,11 +417,9 @@ class App:
         return self.document(lang, 'privacy/', p, inner)
 
 
-def court_lines_svg(shots=False, at_x=780, at_y=400):
+def court_lines_svg(at_x=780, at_y=400):
     # A court seen at an angle, as in the app's 3D view (the same camera: up behind the near right corner,
-    # looking at the net), faint behind the hero and the closing call. Court metres: across, depth, height.
-    # shots: also a few shots' flights over it (from the near court to the far one, two of them misses), as
-    # the app draws them, so the hero reads as a match being measured.
+    # looking at the net), faint behind the closing call. Court metres: across, depth, height.
     import math
     W, L, NET, K = 6.1, 13.41, 6.705, 2.13
     eye, target = (W + 4, -4.0, 10.0), (W / 2, NET, 0.0)
@@ -447,35 +444,93 @@ def court_lines_svg(shots=False, at_x=780, at_y=400):
     P, H = 0.15, 0.914
     net = (f'M{at(-P, NET)} L{at(-P, NET, H)} L{at(W + P, NET, H)} L{at(W + P, NET)}')
     mesh = f'M{at(-P, NET, H)} L{at(W + P, NET, H)} L{at(W + P, NET)} L{at(-P, NET)} Z'
-    flights = ''
-    if shots:
-        # (hit x, hit y), (end x, end y), apex height (m), missed. Ends past the baseline or on the net are misses.
-        plan = [((1.2, 1.0), (4.6, 11.2), 2.2, False), ((4.8, 2.0), (1.4, 9.0), 1.7, False),
-                ((2.6, 0.6), (3.2, 12.6), 2.6, False), ((5.2, 4.0), (2.2, 8.4), 1.4, False),
-                ((0.8, 3.0), (5.4, 10.4), 2.0, False), ((3.4, 1.6), (0.9, 12.2), 2.4, False),
-                ((4.2, 4.6), (4.9, 8.2), 1.3, False), ((1.8, 0.8), (2.4, 14.4), 2.8, True),
-                ((3.0, 4.2), (3.6, NET), 1.0, True), ((4.6, 1.2), (6.9, 10.6), 2.1, True),
-                ((0.6, 2.2), (0.2, 14.2), 2.5, True)]
-        paths, ends = [], []
-        for (hx, hy), (ex, ey), top, miss in plan:
-            pts = []
-            for i in range(25):
-                s = i / 24
-                # A parabola through the hit (1 m up), the apex and the end (on the ground; a net miss stops at the tape).
-                z0, z1 = 1.0, 0.6 if ey == NET else 0.0
-                z = (1 - s) * z0 + s * z1 + 4 * (top - (z0 + z1) / 2) * s * (1 - s)
-                pts.append(at(hx + (ex - hx) * s, hy + (ey - hy) * s, z))
-            paths.append(f'<path class="{"arc-miss" if miss else "arc"}" d="M{" L".join(pts)}"/>')
-            x, y = map(float, at(ex, ey, 0.6 if ey == NET else 0.0).split())
-            ends.append(f'<path class="end-miss" d="M{x - 6:.0f} {y - 6:.0f} L{x + 6:.0f} {y + 6:.0f} M{x + 6:.0f} {y - 6:.0f} L{x - 6:.0f} {y + 6:.0f}"/>'
-                        if miss else f'<circle class="end" cx="{x:.0f}" cy="{y:.0f}" r="6"/>')
-        flights = ('<defs><linearGradient id="arcFade" x1="0" y1="1" x2="0" y2="0">'
-                   '<stop offset="0" stop-color="#FFB48F" stop-opacity=".25"/><stop offset="1" stop-color="#FCE97A" stop-opacity=".9"/>'
-                   f'</linearGradient></defs><g class="flights">{"".join(paths)}{"".join(ends)}</g>')
-    return (f'<svg class="court-lines{" with-shots" if shots else ""}" viewBox="0 0 1200 700" preserveAspectRatio="xMidYMid slice" aria-hidden="true" focusable="false">'
+    return (f'<svg class="court-lines" viewBox="0 0 1200 700" preserveAspectRatio="xMidYMid slice" aria-hidden="true" focusable="false">'
             f'<path class="lines" d="{court}" fill="none" stroke="currentColor" stroke-width="2"/>'
             f'<path class="lines" d="{mesh}" fill="currentColor" fill-opacity=".18" stroke="none"/>'
-            f'<path class="lines" d="{net}" fill="none" stroke="currentColor" stroke-width="3" stroke-linejoin="round" stroke-linecap="round"/>{flights}</svg>')
+            f'<path class="lines" d="{net}" fill="none" stroke="currentColor" stroke-width="3" stroke-linejoin="round" stroke-linecap="round"/></svg>')
+
+
+def hero_court_svg():
+    # The hero's picture: a big court at the app's 3D angle (up behind the near right corner, looking at the
+    # net), with three of your shots as the app marks them: a drop into the back of the far kitchen and a deep
+    # ball to the far right back (yellow rings, in), and one long past the baseline (an orange x, out).
+    # Each flight is round dots, faint near you and fuller further away; the marks are drawn the size they
+    # would be lying on the court there, so nearer ones are bigger. The net is drawn last so nothing hides it.
+    # Placed (in the 1200 x 700 picture) so the flights start over the near court left of the phone, and the
+    # marks land where the phone and its number cards leave them in view, at 1280 px wide too. Below 1180 px
+    # the cards move under the phone, so the shots (.hero-shots) are left out there and the court stays.
+    import math
+    W, L, NET, K = 6.1, 13.41, 6.705, 2.13
+    TANGERINE, LIGHT_TANGERINE, BALL, LINE = '#FF6B2C', '#FF8A57', '#FCE97A', '#F7F2EC'
+    eye, target = (W + 3.0, -3.0, 6.5), (W / 2 - .5, NET + 1.0, 0.0)
+    sub = lambda a, b: tuple(x - y for x, y in zip(a, b))
+    dot = lambda a, b: sum(x * y for x, y in zip(a, b))
+    cross = lambda a, b: (a[1] * b[2] - a[2] * b[1], a[2] * b[0] - a[0] * b[2], a[0] * b[1] - a[1] * b[0])
+    unit = lambda a: tuple(x / math.sqrt(dot(a, a)) for x in a)
+    f = unit(sub(target, eye)); r = unit(cross(f, (0, 0, 1))); u = cross(r, f)
+
+    def at(x, y, z=0.0):
+        d = sub((x, y, z), eye)
+        depth = dot(d, f)
+        return 860 + 920 * dot(d, r) / depth, 240 - 920 * dot(d, u) / depth
+
+    pts = lambda ps: ' L'.join(f'{x:.1f} {y:.1f}' for x, y in ps)
+    out = []
+    # The court: its surface and kitchens a faint tangerine, the lines a faint white.
+    out.append(f'<path d="M{pts([at(0, 0), at(W, 0), at(W, L), at(0, L)])} Z" fill="{TANGERINE}" fill-opacity=".07"/>')
+    out.append(f'<path d="M{pts([at(0, NET - K), at(W, NET - K), at(W, NET + K), at(0, NET + K)])} Z" fill="{TANGERINE}" fill-opacity=".07"/>')
+    for a, b in [((0, 0), (W, 0)), ((0, L), (W, L)), ((0, 0), (0, L)), ((W, 0), (W, L)),
+                 ((0, NET - K), (W, NET - K)), ((0, NET + K), (W, NET + K)),
+                 ((W / 2, 0), (W / 2, NET - K)), ((W / 2, NET + K), (W / 2, L))]:
+        (x1, y1), (x2, y2) = at(*a), at(*b)
+        out.append(f'<line x1="{x1:.0f}" y1="{y1:.0f}" x2="{x2:.0f}" y2="{y2:.0f}" stroke="{LINE}" stroke-opacity=".28" stroke-width="2"/>')
+
+    def flight(hit, end, top, peak, z0=.9, n=26):
+        # From the hit (z0 m up) to the ground, highest (top m) at `peak` of the way: a drop peaks early.
+        (hx, hy), (ex, ey) = hit, end
+        for i in range(n + 1):
+            s = i / n
+            z = z0 + (top - z0) * (1 - ((peak - s) / peak) ** 2) if s < peak else top - top * ((s - peak) / (1 - peak)) ** 2
+            yield hx + (ex - hx) * s, hy + (ey - hy) * s, z
+
+    def ring(x, y, rad):
+        ps = [at(x + rad * math.cos(a), y + rad * math.sin(a)) for a in [i / 24 * 2 * math.pi for i in range(24)]]
+        return f'<path d="M{pts(ps)} Z" fill="none" stroke="{BALL}" stroke-width="2.6"/>'
+
+    # (hit, landing, highest point m, where it peaks, out, ring radius m)
+    shots = [((1.75, 4.0), (4.3, 8.3), 1.8, .4, False, .3),     # the drop
+             ((2.5, 1.25), (5.15, 12.2), 1.6, .5, False, .22),  # the deep ball
+             ((4.75, .25), (1.8, 14.6), 2.2, .5, True, .3)]     # the long one, out
+    out.append('<g class="hero-shots">')
+    for hit, end, top, peak, miss, rad in shots:
+        dots = list(flight(hit, end, top, peak))
+        for x, y, z in dots:
+            # Faint near you, fuller further away.
+            s = min(max((y + 1.0) / (L + 2.5), 0), 1)
+            px, py = at(x, y, z)
+            out.append(f'<circle cx="{px:.1f}" cy="{py:.1f}" r="3.6" fill="{LIGHT_TANGERINE if miss else BALL}" fill-opacity="{.3 + .65 * s ** 1.3:.2f}"/>')
+        if not miss:
+            out.append(ring(*end, rad))
+            continue
+        # The x: an upright x turned (by at most 25 degrees, so it still reads as an x) so the flight comes in
+        # between its arms, and as big as a ring would be there.
+        (ax, ay), (bx, by) = at(*dots[-4]), at(*dots[-1])
+        ang = math.atan2(by - ay, bx - ax)
+        clear = lambda t: min(abs(math.remainder(ang - (math.pi / 4 + t + q * math.pi / 2), math.pi)) for q in (0, 1))
+        turn = max((math.radians(v) for v in range(-25, 26)), key=clear)
+        cx, cy = at(*end)
+        half = math.dist(at(end[0] - rad, end[1]), at(end[0] + rad, end[1])) / 2
+        k, w = half * .85, max(2.4, half * .2)
+        arms = ' '.join(f'M{cx - k * math.cos(a):.1f} {cy - k * math.sin(a):.1f} L{cx + k * math.cos(a):.1f} {cy + k * math.sin(a):.1f}'
+                        for a in (math.pi / 4 + turn, -math.pi / 4 + turn))
+        out.append(f'<path d="{arms}" stroke="{TANGERINE}" stroke-width="{w:.1f}" stroke-linecap="round"/>')
+    out.append('</g>')
+    # The net as it stands (posts, tape and mesh), last.
+    P, H = .15, .914
+    out.append(f'<path d="M{pts([at(-P, NET), at(-P, NET, H), at(W + P, NET, H), at(W + P, NET)])} Z" fill="{LINE}" fill-opacity=".06" '
+               f'stroke="{LINE}" stroke-opacity=".4" stroke-width="2.5" stroke-linejoin="round"/>')
+    return (f'<svg class="court-lines hero-court" viewBox="0 0 1200 700" preserveAspectRatio="xMidYMid slice" aria-hidden="true" focusable="false">'
+            f'{"".join(out)}</svg>')
 
 
 # --------------------------------------------------------------------------------------- language-neutral URLs

diff --git a/README.md b/README.md
@@ -227,7 +227,7 @@ solutions: [
 - カードのどこを押しても、同じタブで紹介ページに移る。再生画面には入らず、`#solutions-<id>` で開いたときは Solutions を表示するだけ。
 - `stores` の URL が入ったバッジだけがリンクになり、ストアを新しいタブで開く。どちらかが `null` の間は、バッジの横に「近日公開」（`solutions.soon`）を出す。**ストアに出したら、`scripts/app_pages/<アプリ>.py` の `STORES` と、ここの `stores` の両方に同じ URL を入れる。**
 - バッジは紹介ページと同じ公式の画像（`images/apps/badges/`）を高さ 40px（Apple が定める画面上の最小）で表示する。
-- 画像は紹介ページの冒頭（コート・スマホ・3つの数字）をカード用に並べ直したもの。紹介ページの画面や数字を変えたら、次の手順で作り直す（Playwright は リポジトリの外に入れる）。
+- 画像は紹介ページの冒頭（コートと打球・スマホ・3つの数字）を、文字を隠して 16:9 に切り出したもの。紹介ページの画面や数字を変えたら、次の手順で作り直す（Playwright は リポジトリの外に入れる）。
   ```bash
   python3 -m http.server 8080 &                       # 別のターミナルでもよい
   node scripts/app_pages/card_image.mjs ja /tmp/card-ja.png   # en も同様
